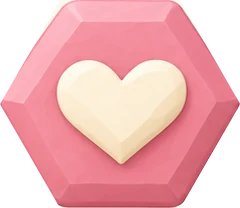
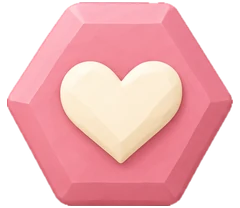
Tiles (#18): matte pastel re-cut with a real alpha; clearer tile style names
- Pastel tiles are cut from their own sheet (02-matte-pastel.png) with an alpha from the art: the pale rim is
  whole, corners stay rounded, no cream background slivers (the old hard hexagon mask clipped them)
- Tile style names: Crystal (default), Vivid, Honey, Pastel, Beeswax (en/uk/ru)

diff --git a/src/i18n/strings/event.ts b/src/i18n/strings/event.ts
@@ -66,11 +66,12 @@ export const event = {
   "st.tilesApply": { en: "Apply", uk: "Застосувати", ru: "Применить" },
   "st.tilesNow": { en: "In use now", uk: "Зараз увімкнено", ru: "Сейчас включён" },
   "st.tiles.soft": { en: "Soft crystal", uk: "М'який кристал", ru: "Мягкий кристалл" },
-  "st.tiles.pastel": { en: "Matte pastel", uk: "Матова пастель", ru: "Матовая пастель" },
-  "st.tiles.wax": { en: "Warm wax", uk: "Теплий віск", ru: "Тёплый воск" },
-  "st.tiles.classic": { en: "Bright (1.5)", uk: "Яскраві (1.5)", ru: "Яркие (1.5)" },
-  "st.tiles.mellow": { en: "Bright · calmer", uk: "Яскраві · спокійніше", ru: "Яркие · спокойнее" },
-  "st.tiles.balanced": { en: "Honey · soft", uk: "Медовий · м'якше", ru: "Медовый · мягче" },
+  // 1.7 (#18): short names that say what the tiles look like
+  "st.tiles.pastel": { en: "Pastel", uk: "Пастель", ru: "Пастель" },
+  "st.tiles.wax": { en: "Beeswax", uk: "Віск", ru: "Воск" },
+  "st.tiles.classic": { en: "Vivid", uk: "Соковиті", ru: "Сочные" },
+  "st.tiles.mellow": { en: "Crystal", uk: "Кристал", ru: "Кристалл" },
+  "st.tiles.balanced": { en: "Honey", uk: "Медові", ru: "Медовые" },
   "st.tiles.faceted": { en: "Honey · facets", uk: "Медовий · грані", ru: "Медовый · грани" },
   "game.ghost": { en: "Ghost caught!", uk: "Привида спіймано!", ru: "Призрак пойман!" },
   "item.witchhat": { en: "Witch Hat", uk: "Капелюх відьми", ru: "Шляпа ведьмы" },

diff --git a/tests-rn/tile-styles.test.tsx b/tests-rn/tile-styles.test.tsx
@@ -23,15 +23,15 @@ test.each([true, false])("exactly the five selected styles are available (dev=%s
   const p = props(dev);
   await render(<SettingsModal {...p} />);
   // the main list has one row; the picker page previews a style and applies it on "Применить"
-  await fireEvent.press(screen.getByLabelText("Соты головоломки: Яркие (1.5)"));
+  await fireEvent.press(screen.getByLabelText("Соты головоломки: Сочные"));
   expect(screen.getAllByRole("radio")).toHaveLength(5);
   expect(screen.queryByLabelText("Мягкий кристалл")).toBeNull();
   expect(screen.queryByLabelText("Медовый · грани")).toBeNull();
-  await fireEvent.press(screen.getByLabelText("Медовый · мягче"));
+  await fireEvent.press(screen.getByLabelText("Медовые"));
   expect(p.onSet).not.toHaveBeenCalled();
   await fireEvent.press(screen.getByLabelText("Применить"));
   expect(p.onSet).toHaveBeenCalledWith("tiles", "balanced");
-  await fireEvent.press(screen.getByLabelText("Яркие · спокойнее"));
+  await fireEvent.press(screen.getByLabelText("Кристалл"));
   await fireEvent.press(screen.getByLabelText("Применить"));
   expect(p.onSet).toHaveBeenCalledWith("tiles", "mellow");
 });

diff --git a/scripts/import_tile_styles.py b/scripts/import_tile_styles.py
@@ -16,7 +16,6 @@ OUT = "assets/art/tiles/"
 # hexagon (a pumpkin stem), so they are framed by the plain tile of the same row and scale next to them.
 H2 = D + "halloween-soft-crystal-and-matte-pastel.png"
 STYLES = {
-    "pastel": (D + "current-and-all-options.png", 2, 2),
     "wax": (D + "current-and-all-options.png", 3, 3),
 }
 ROWS = ["cell0", "cell1", "cell2", "cell3", "cell4", "cell_wild"]
@@ -50,6 +49,29 @@ bomb = bomb.crop(bomb.getbbox())
 bh = int(H * 0.8); bw = int(bomb.width * bh / bomb.height)
 bomb = bomb.resize((bw, bh), Image.LANCZOS)
 compact = Image.new("RGBA", (W, H)); compact.alpha_composite(bomb, ((W - bw) // 2, (H - bh) // 2 - 2))
+# 1.7 (#18): matte pastel is cut from its own sheet with a real alpha (the comparison-sheet cut under a hard hexagon mask
+# clipped the pale rim and left cream background slivers in the rounded corners)
+def cut_pastel():
+    from PIL import ImageFilter
+    src = Image.open(D + "02-matte-pastel.png").convert("RGB")
+    bg = src.getpixel((20, 1000))
+    k = src.width / 900  # tile centres measured on a 900 px wide preview
+    centres = [(128, 183), (343, 183), (557, 183), (771, 183), (222, 410), (448, 410)]  # sun heart flower drop leaf | joker
+    for name, (x, y) in zip(ROWS, centres):
+        cx, cy = int(x * k), int(y * k)
+        r = src.crop((cx - 190, cy - 170, cx + 190, cy + 170))
+        m = ImageChops.difference(r, Image.new("RGB", r.size, bg)).convert("L").point(lambda v: 255 if v > 28 else 0)
+        f = m.copy(); ImageDraw.floodfill(f, (0, 0), 128)  # the outside; the cream glyph inside stays part of the tile
+        solid = f.point(lambda v: 0 if v == 128 else 255).filter(ImageFilter.MinFilter(7)).filter(ImageFilter.MaxFilter(7))
+        bb = solid.getbbox()
+        t = r.crop(bb).convert("RGBA")
+        t.putalpha(solid.crop(bb).filter(ImageFilter.MinFilter(3)).filter(ImageFilter.GaussianBlur(0.8)))
+        t.thumbnail((W - 2, H - 4), Image.LANCZOS)
+        out = Image.new("RGBA", (W, H)); out.alpha_composite(t, ((W - t.width) // 2, (H - t.height) // 2))
+        out.save(f"{OUT}pastel_{name}.webp", "WEBP", quality=88, method=6)
+    compact.save(f"{OUT}pastel_bomb.webp", "WEBP", quality=88, method=6)
+    print("pastel")
+cut_pastel()
 for style, (path, col, frame) in STYLES.items():
     for i, name in enumerate(ROWS):
         cut(path, col, frame, i).save(f"{OUT}{style}_{name}.webp", "WEBP", quality=88, method=6)
